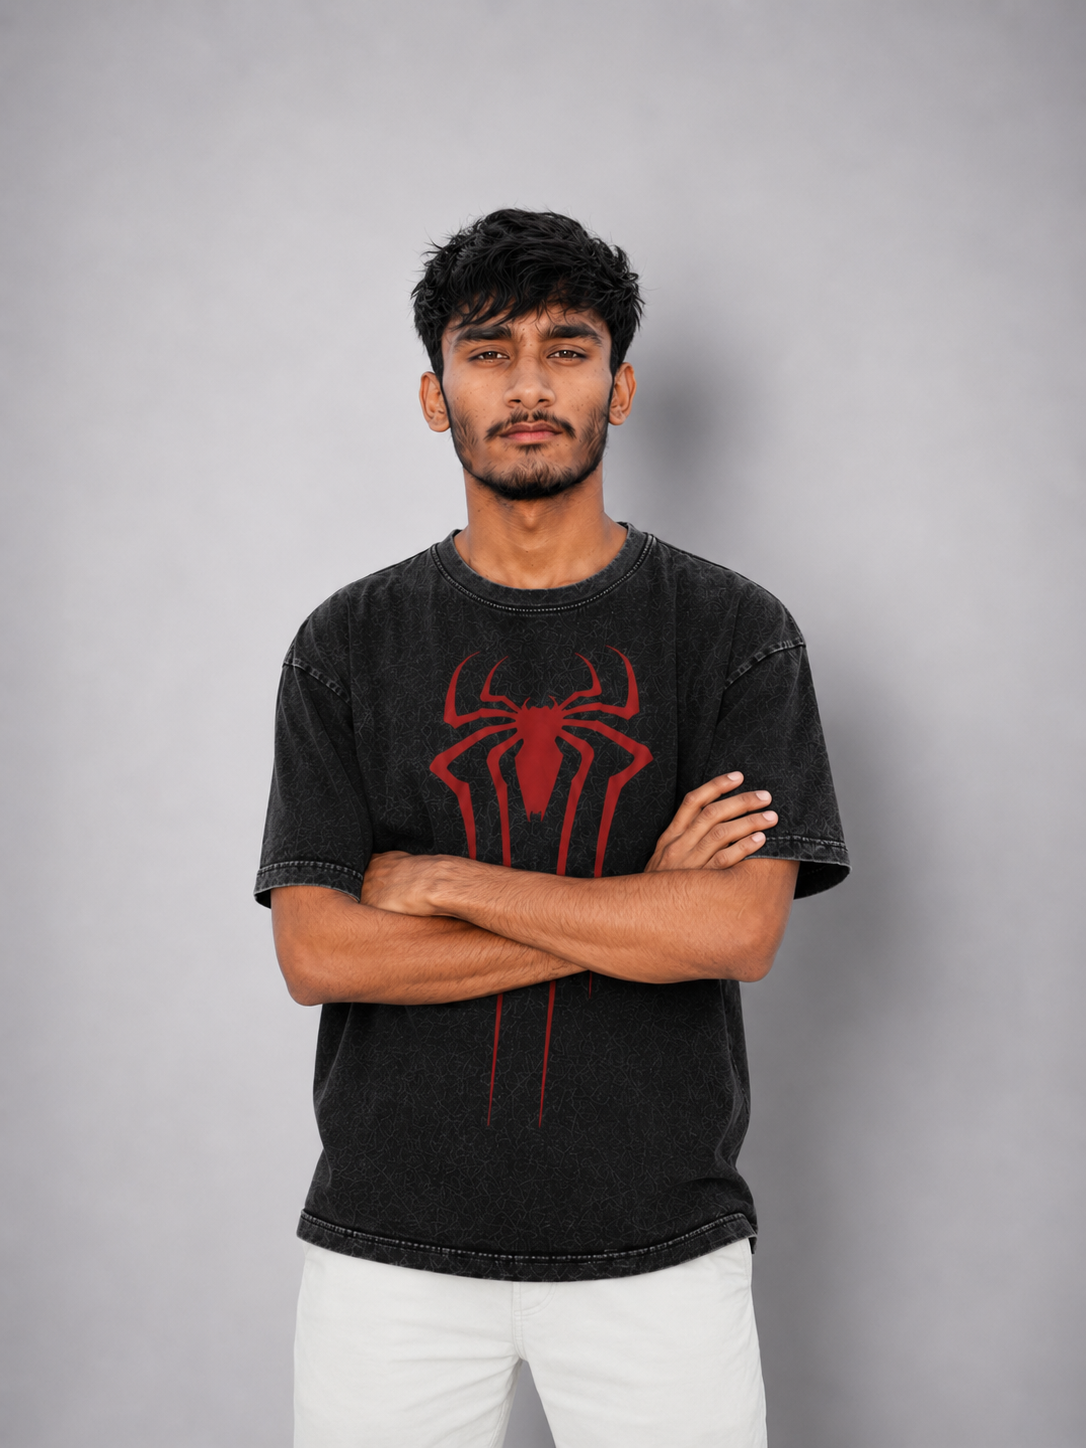
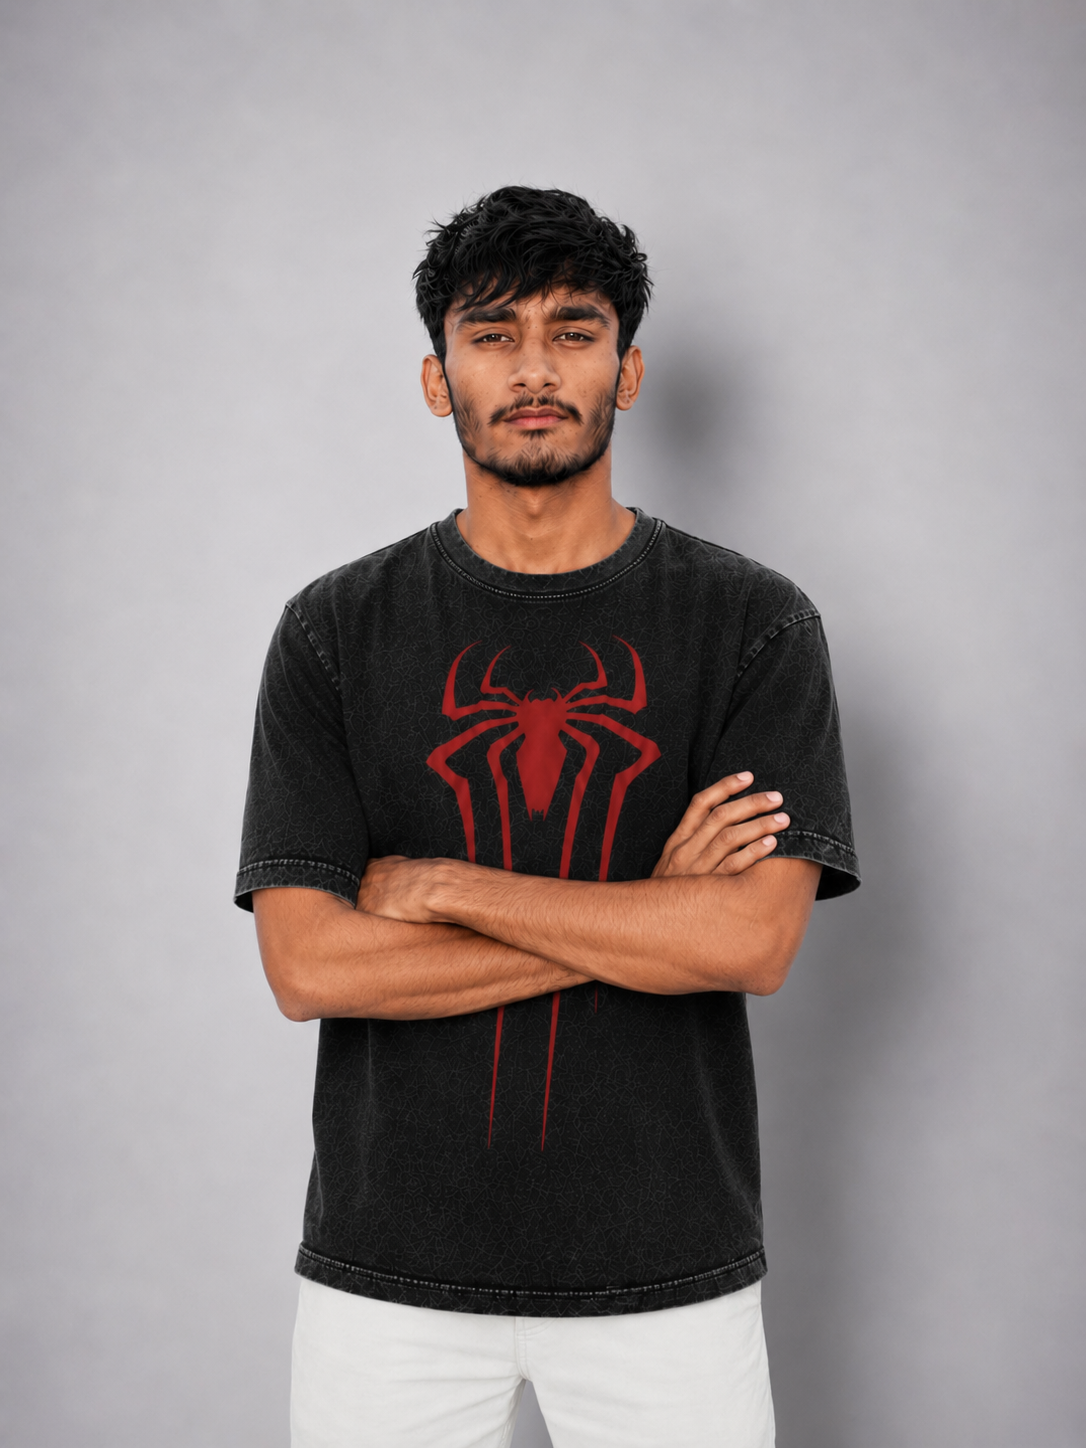
Update founder photo and remove mobile zoom hack
- Replace founder-sawai.png with new photo
- Remove body zoom:.65 CSS that was zooming out on mobile

Claude-Session: https://claude.ai/code/session_01M3SWMY1UgVxgFusiJMmM4g

Changed region(s): [[0.2127, 0.1243, 0.7901, 1.0], [0.4254, 0.7459, 0.4558, 0.7769]]

diff --git a/assets/css/styles.css b/assets/css/styles.css
@@ -204,11 +204,6 @@ h3{font-size:1.18rem;letter-spacing:-.02em}
   .wa{height:500px}
   .hero h1{font-size:clamp(2rem,8vw,2.6rem)}
 }
-/* Zoom the whole page out on phones so the 2-column layout fits.
-   Works on real phones, DevTools AND a resized desktop window. */
-@media(max-width:600px){
-  body{zoom:.65}
-}
 
 /* ---------- Phone / WhatsApp mockup ---------- */
 .hero__visual{position:relative;display:flex;justify-content:center;perspective:1400px}
